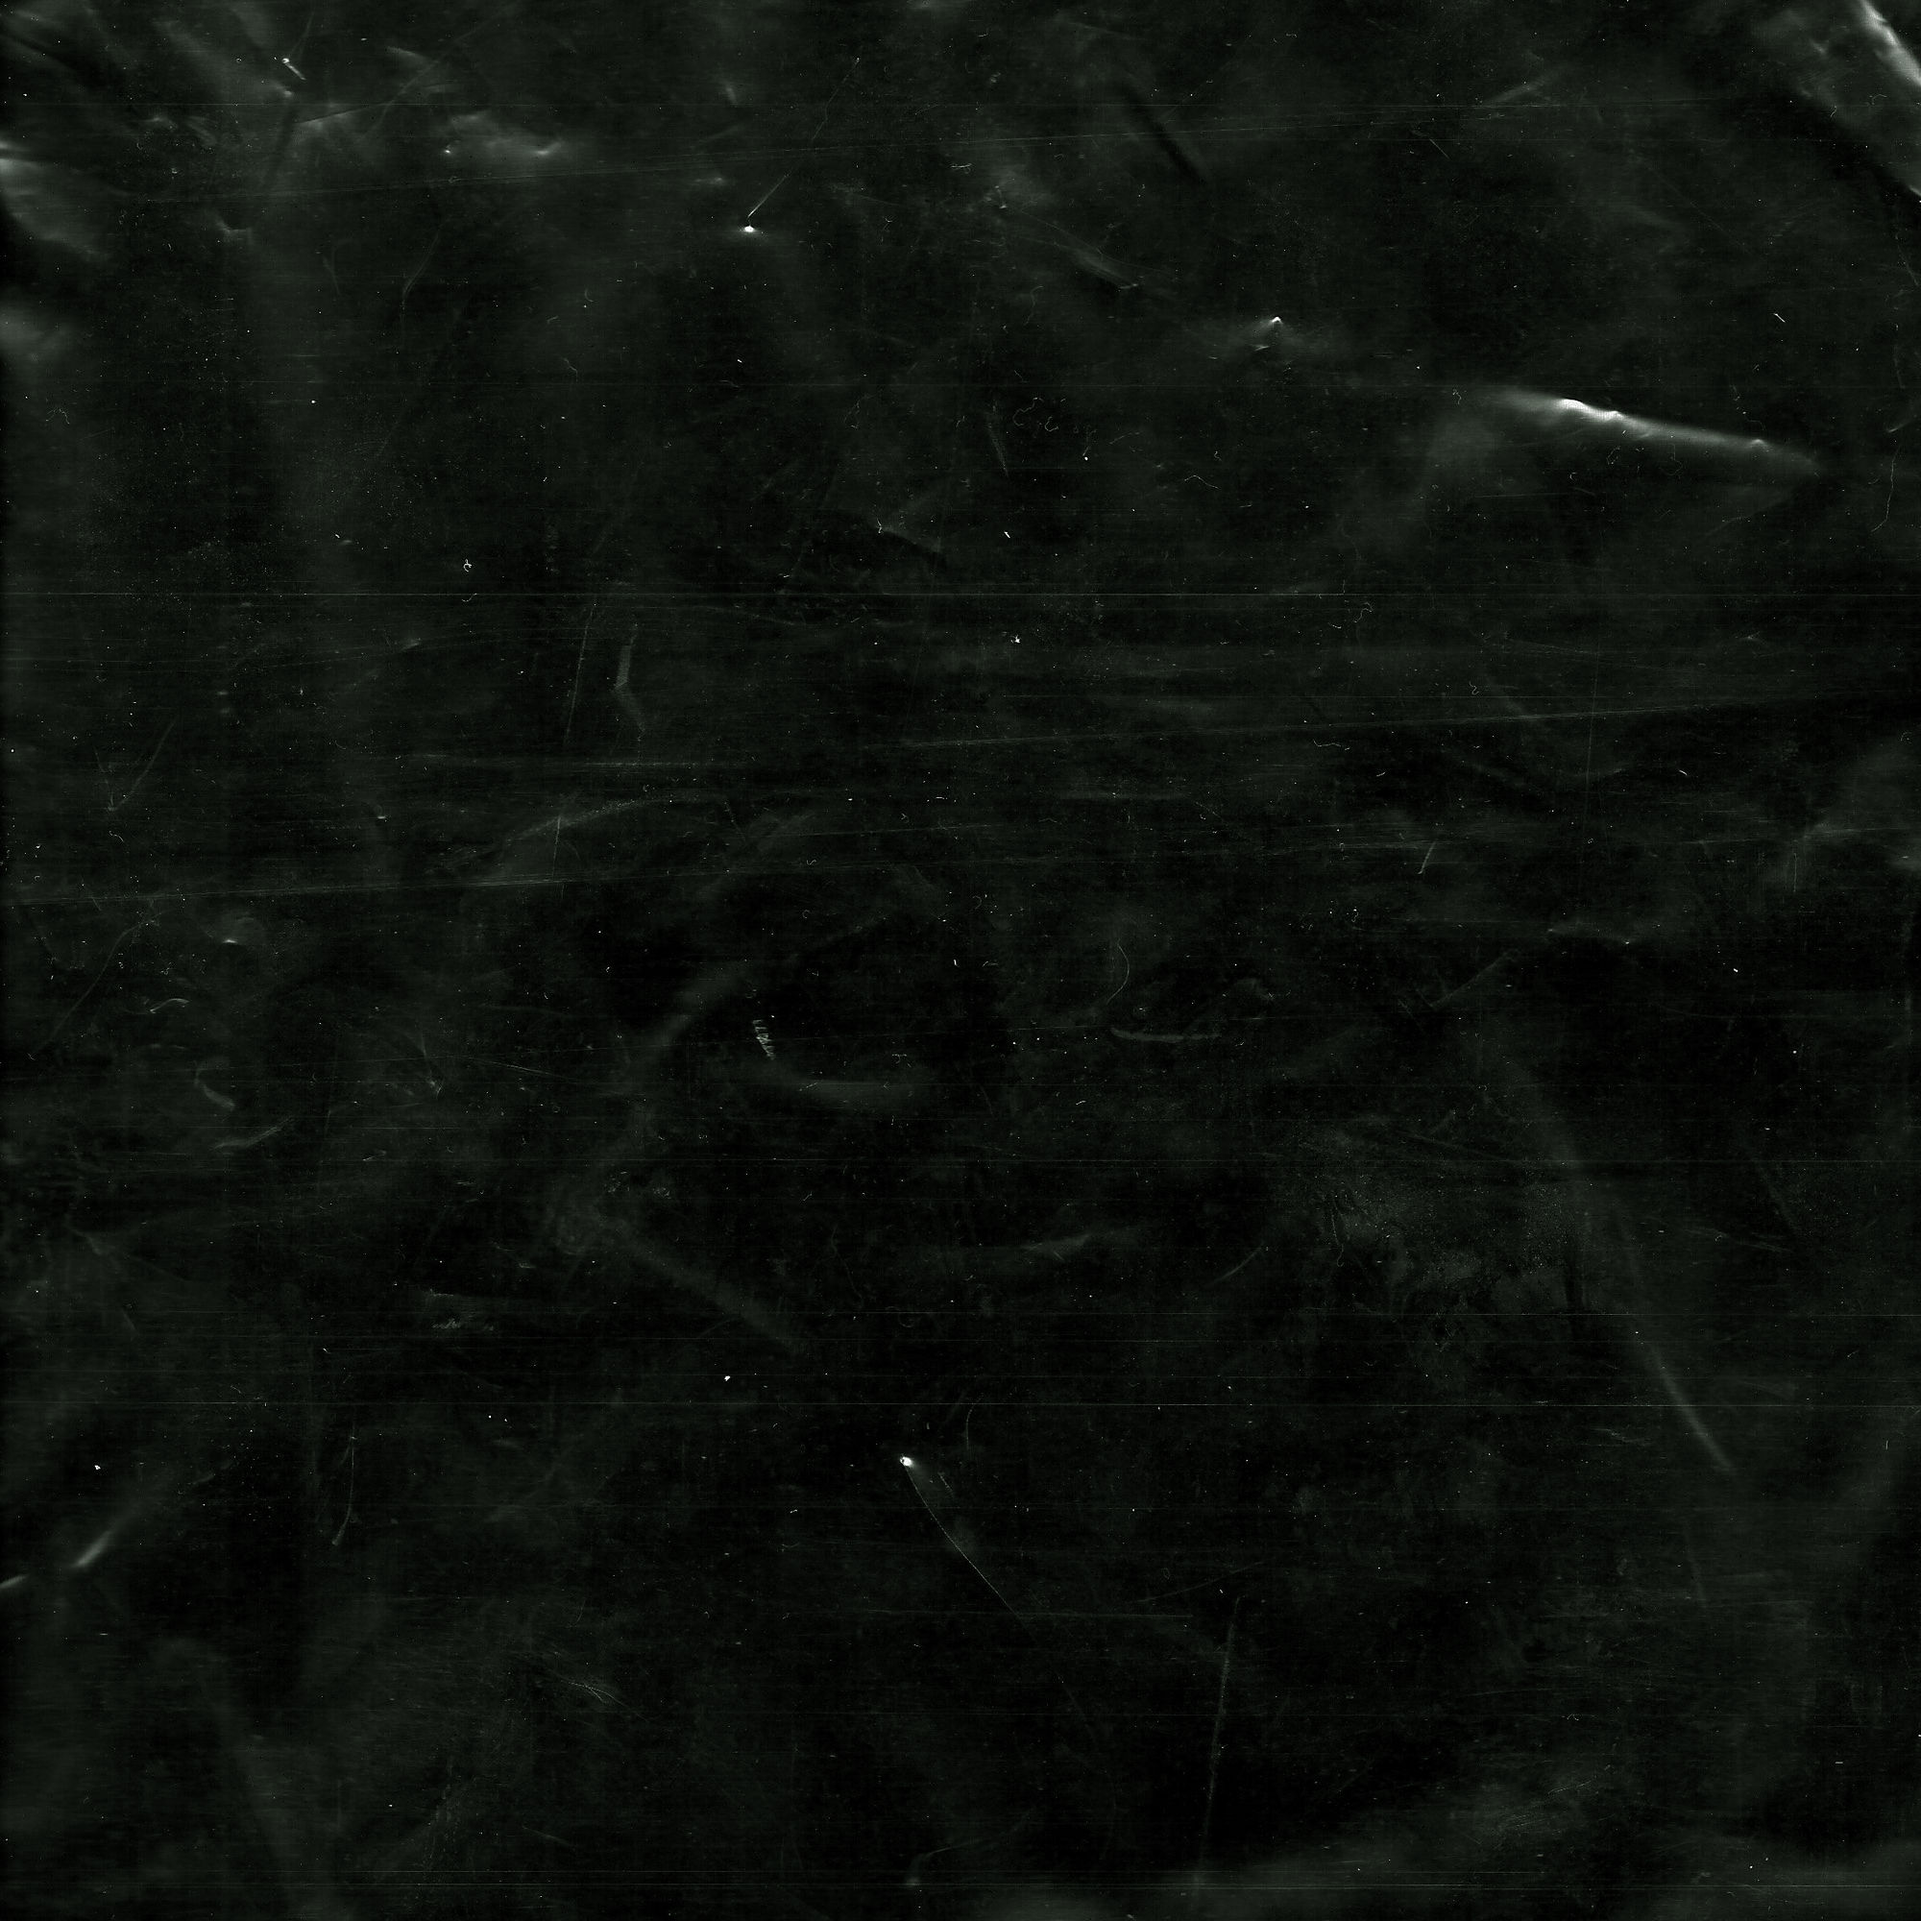
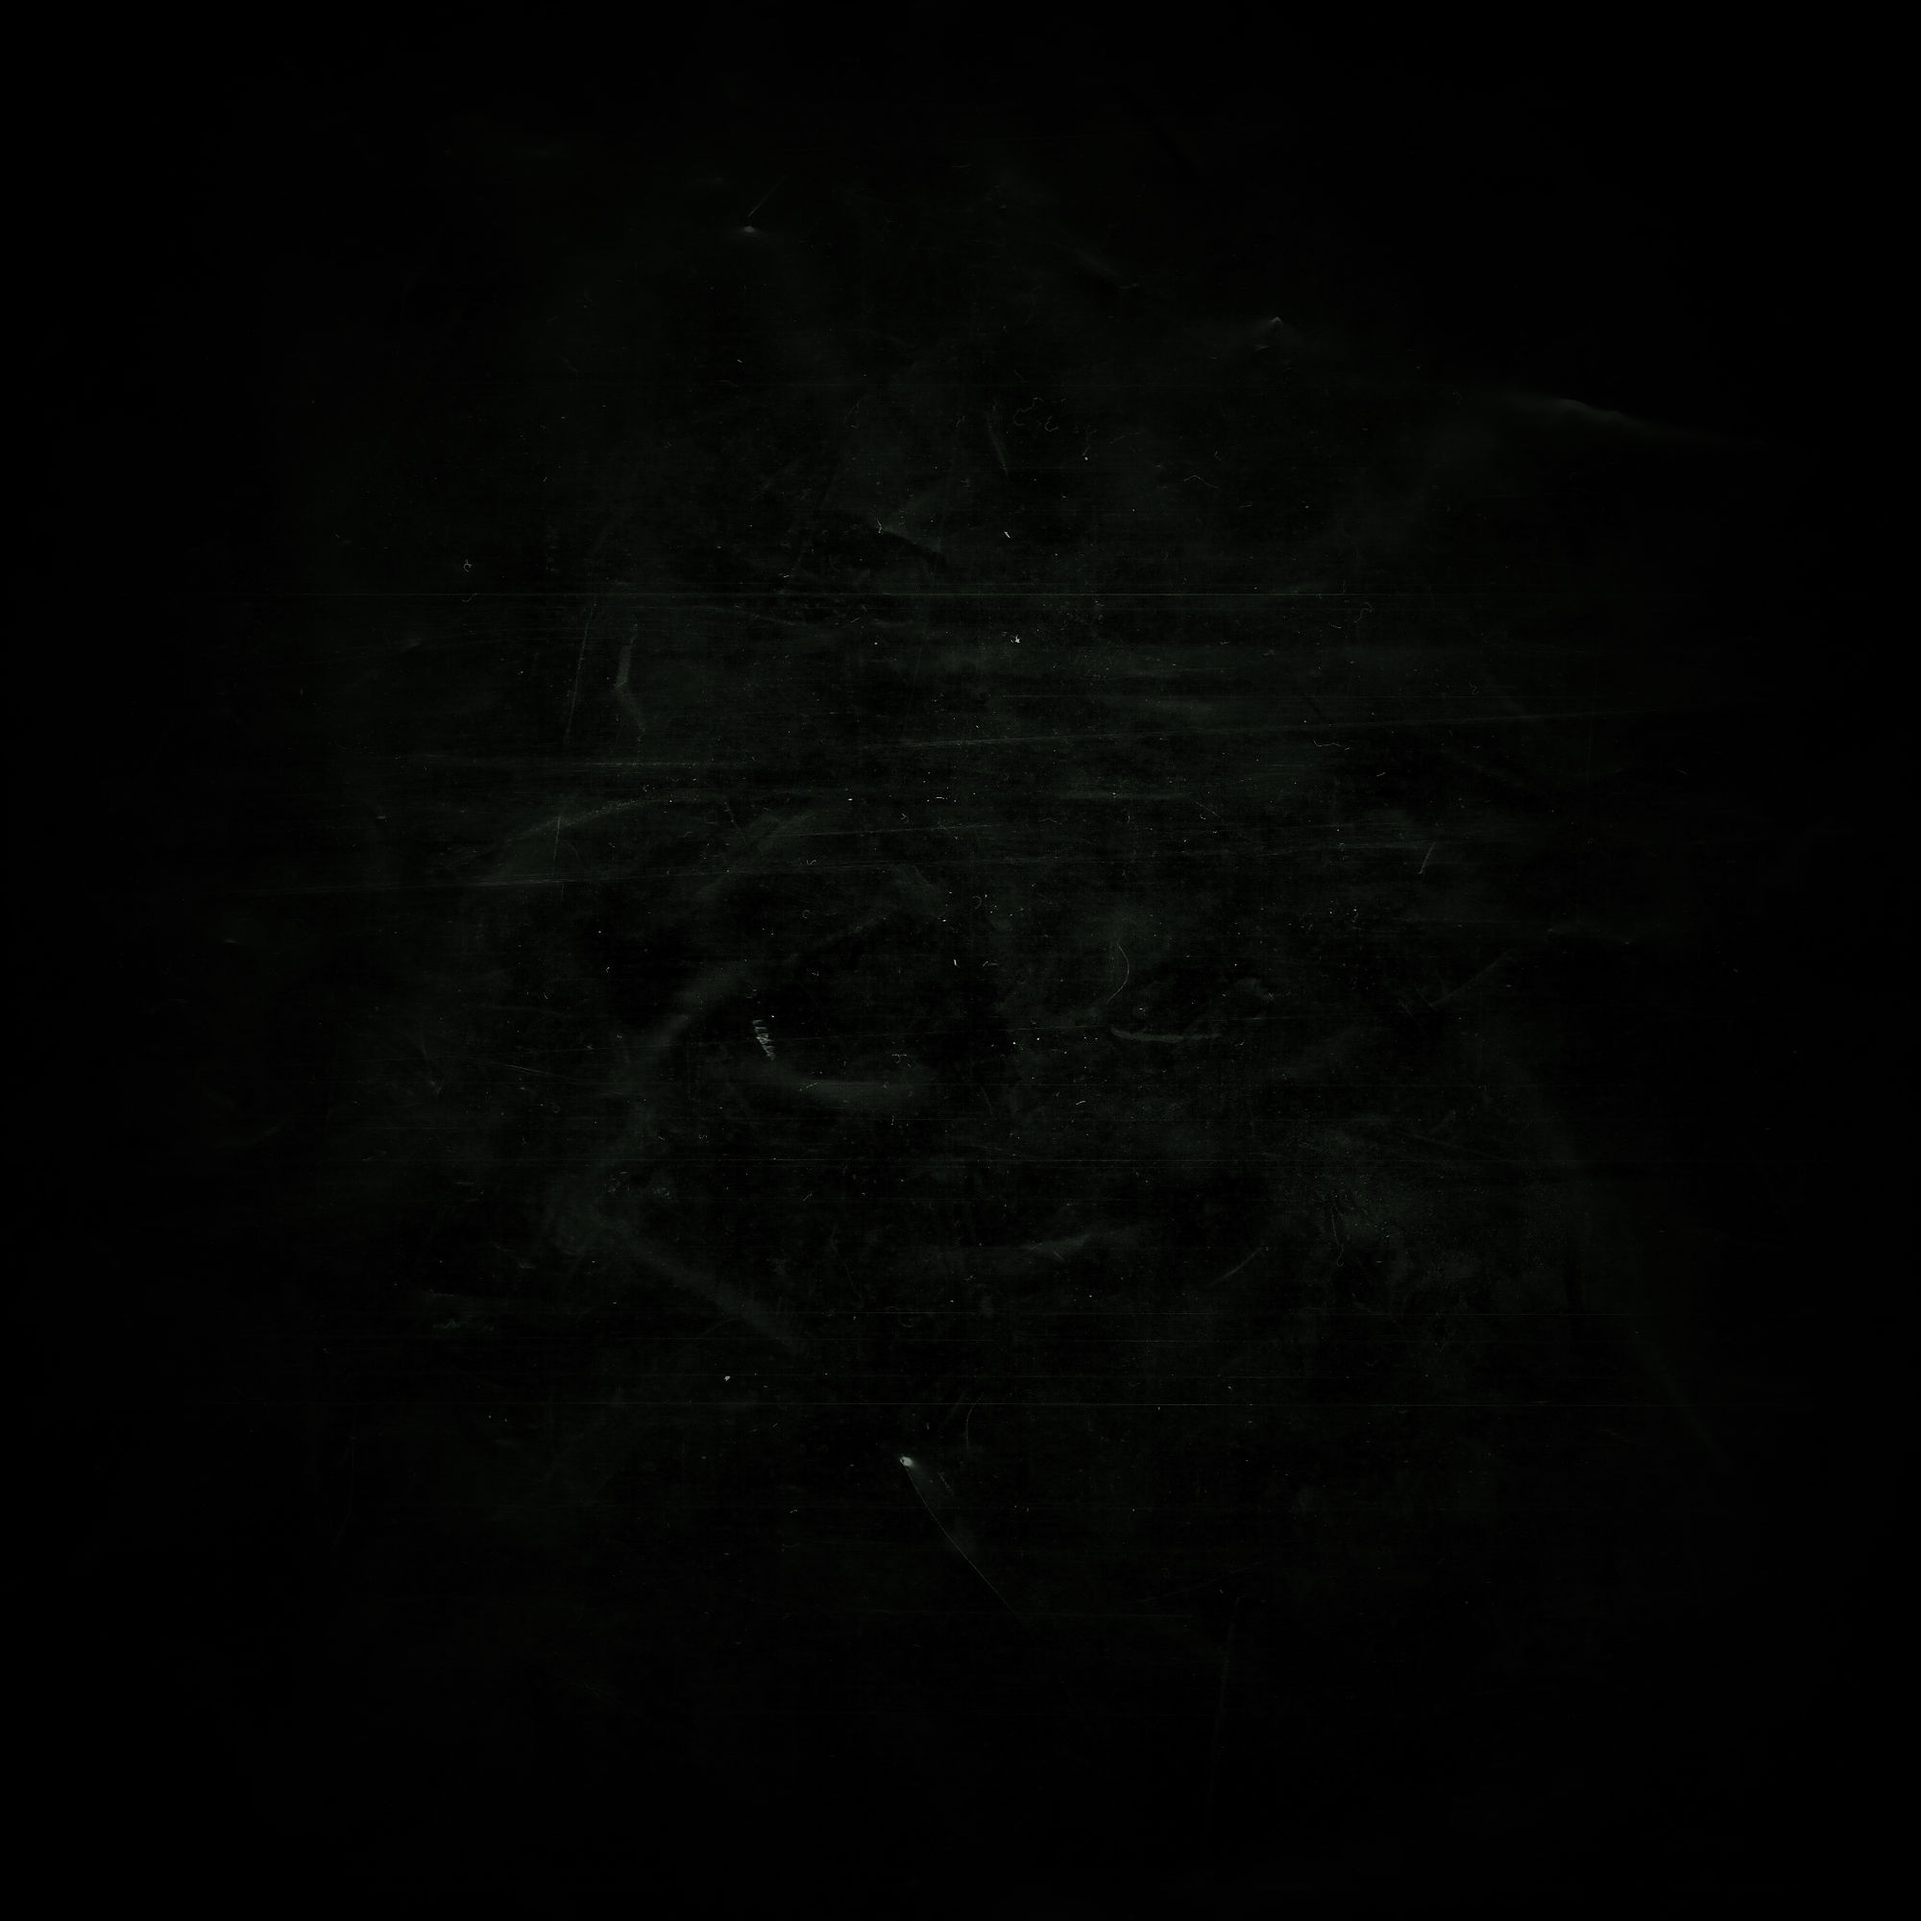
changed bg

diff --git a/css/main.css b/css/main.css
@@ -18,7 +18,7 @@ body {
     width: 100%;
     font-family: 'Playfair Display', serif;
     color: white;
-    background-color: #1f5d1f;
+    background-color: black;
     background-image: url(../img/delacour-bg.jpg);
     background-size: cover;
     background-position: center center;
